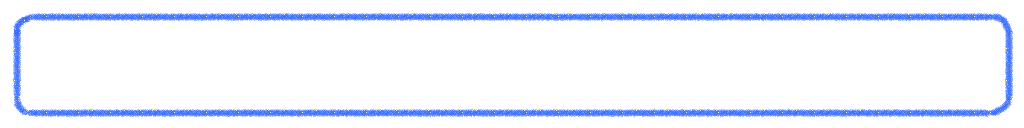
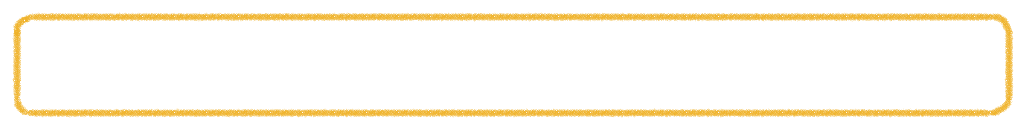
feat: 책임감 게이지 수정 및 고양이 애니메이션이 포함된 로딩 UI 개선
- 책임감 UI 게이지도 항상 표시되도록 수정
- 로딩 바 색상을 노란색으로 변경
- 고양이 애니메이션 추가로 로딩 중 시각적 피드백 강화

Changed region(s): [[0.0, 0.0938, 1.0, 0.9375]]

diff --git a/Assets/02.Scripts/Managers/UIManager.cs b/Assets/02.Scripts/Managers/UIManager.cs
@@ -9,7 +9,6 @@ public enum eUIGameObjectName
     WarningVignette,
     CatVersionUIGroup,
     HumanVersionUIGroup,
-    HeartParent,
     ResponsibilityGroup,
     ResponsibilityGauge
 }
@@ -75,7 +74,6 @@ public class UIManager : MonoBehaviour
         uiGameObjects.Add(eUIGameObjectName.CatVersionUIGroup, catVersionUIGroup);
         uiGameObjects.Add(eUIGameObjectName.HumanVersionUIGroup, humanVersionUIGroup);
 
-        uiGameObjects.Add(eUIGameObjectName.HeartParent, heartParent);
         uiGameObjects.Add(eUIGameObjectName.ResponsibilityGroup, responsibilityGroup);
         uiGameObjects.Add(eUIGameObjectName.ResponsibilityGauge, responsibilityGauge);
 

diff --git a/Assets/02.Scripts/Managers/ResponsibilityManager.cs b/Assets/02.Scripts/Managers/ResponsibilityManager.cs
@@ -19,6 +19,9 @@ public class ResponsibilityManager : MonoBehaviour
         {
             Instance = this;
             DontDestroyOnLoad(gameObject);
+
+            UIManager.Instance.SetUI(eUIGameObjectName.ResponsibilityGroup, true);
+            UIManager.Instance.SetUI(eUIGameObjectName.ResponsibilityGauge, true);
         }
         else
             Destroy(gameObject);
